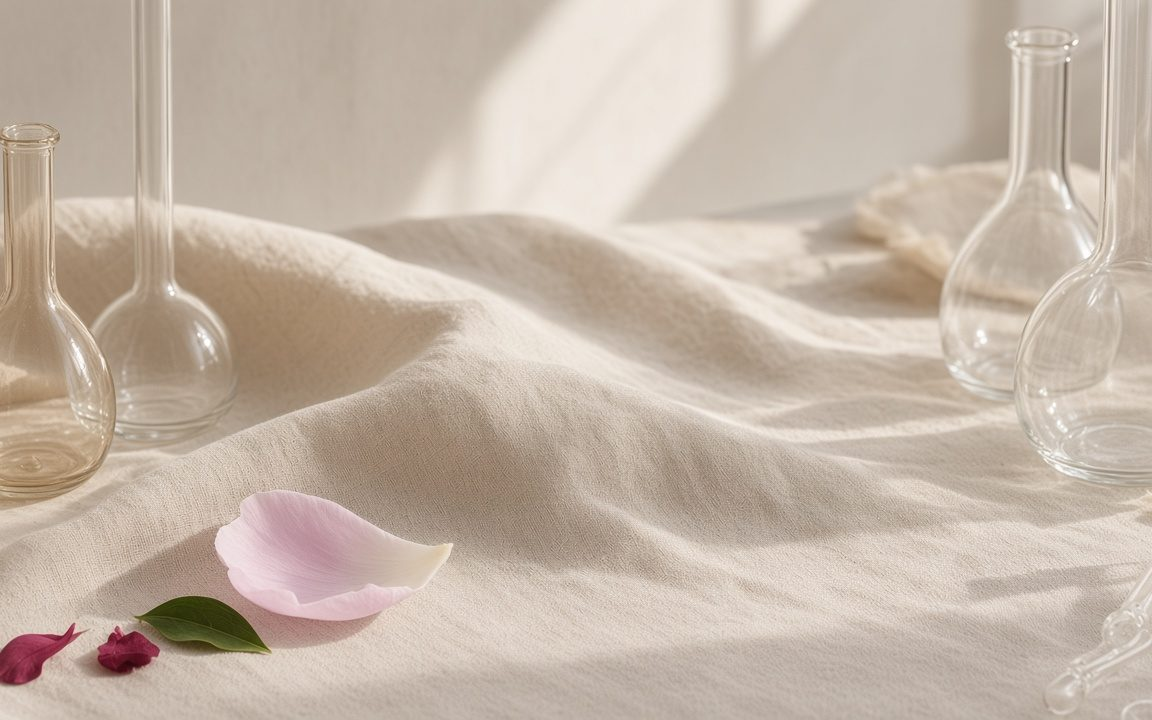
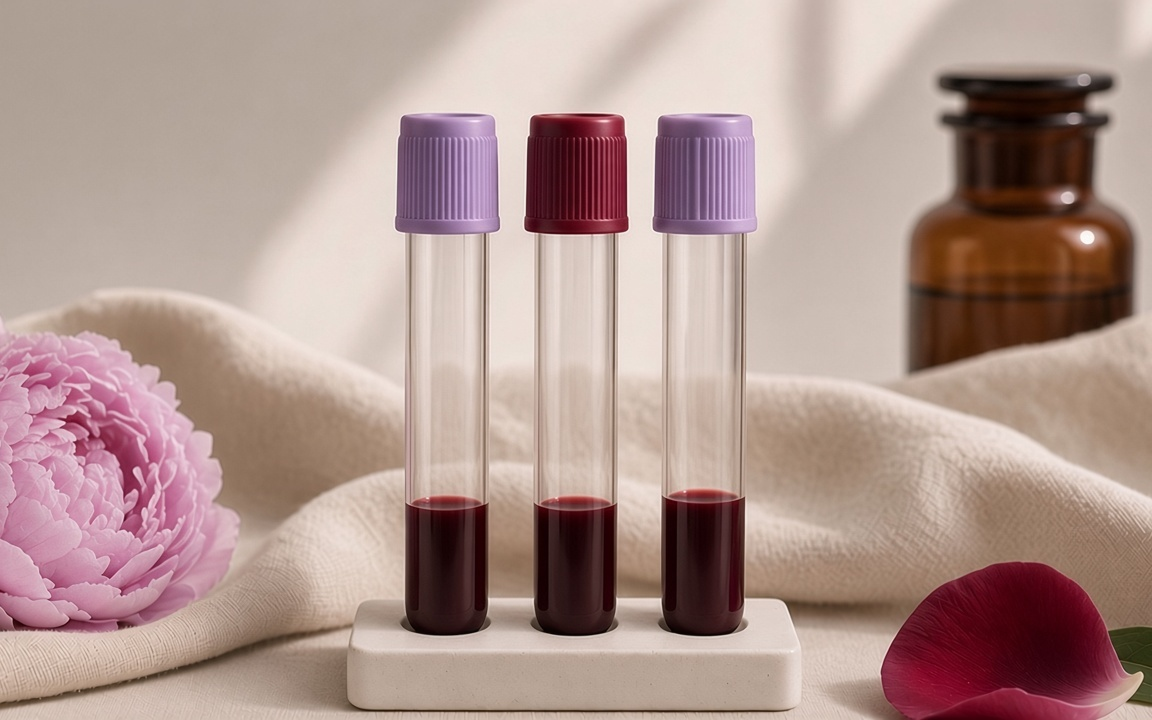
Use the final blood-work and first-visit Library images.
The blood-work picture shows a low fill of blood in three tubes. The first-visit picture shows an illustrated Bloom visit screen. Alt text matches those pictures, and the other four images stay as they were.

diff --git a/index.html b/index.html
@@ -1319,8 +1319,8 @@ footer a:hover{color:var(--bone)}
     </div>
     <!-- Illustrative AI-generated imagery for the six Library articles, cropped from 16:9 to 16:10. Not a photograph of a patient, a practitioner, or a laboratory result. -->
 <div class="lib-grid">
-      <article class="neo res reveal"><div class="res-img" role="img" aria-label="An open blank notebook, a pen and a laptop with a dark screen on linen, beside a pink flower in a small vase" style="background-image:url('library/images/what-to-expect-at-your-first-visit.jpg')"></div><div class="res-top"><span class="pill pill-lilac">Bloom</span><span class="small">6 min read</span></div><h3><a href="/library/what-to-expect-at-your-first-visit.html">What to expect at your first visit</a></h3><p class="small">How an integrated visit works, from booking to your written plan.</p><a class="link" href="/library/what-to-expect-at-your-first-visit.html">Read</a></article>
-      <article class="neo res reveal"><div class="res-img" role="img" aria-label="Clear glass vessels on ivory linen, with a pale pink petal and a few leaves" style="background-image:url('library/images/understanding-your-blood-work.jpg')"></div><div class="res-top"><span class="pill pill-lilac">Guide</span><span class="small">7 min read</span></div><h3><a href="/library/understanding-your-blood-work.html">Understanding your blood work</a></h3><p class="small">What common lab markers measure, explained in plain language, plus questions to bring to your next visit. Your practitioner will always review your results with you.</p><a class="link" href="/library/understanding-your-blood-work.html">Read</a></article>
+      <article class="neo res reveal"><div class="res-img" role="img" aria-label="An open blank notebook, a pen, and a laptop showing an illustrated Bloom visit screen, beside a pink flower in a vase" style="background-image:url('library/images/what-to-expect-at-your-first-visit.jpg')"></div><div class="res-top"><span class="pill pill-lilac">Bloom</span><span class="small">6 min read</span></div><h3><a href="/library/what-to-expect-at-your-first-visit.html">What to expect at your first visit</a></h3><p class="small">How an integrated visit works, from booking to your written plan.</p><a class="link" href="/library/what-to-expect-at-your-first-visit.html">Read</a></article>
+      <article class="neo res reveal"><div class="res-img" role="img" aria-label="Three collection tubes with a low level of dark red blood, lilac and burgundy caps, on ivory linen beside a pink flower and an amber bottle" style="background-image:url('library/images/understanding-your-blood-work.jpg')"></div><div class="res-top"><span class="pill pill-lilac">Guide</span><span class="small">7 min read</span></div><h3><a href="/library/understanding-your-blood-work.html">Understanding your blood work</a></h3><p class="small">What common lab markers measure, explained in plain language, plus questions to bring to your next visit. Your practitioner will always review your results with you.</p><a class="link" href="/library/understanding-your-blood-work.html">Read</a></article>
       <article class="neo res reveal"><div class="res-img" role="img" aria-label="A ceramic cup of tea beside a closed book, a white flower and lilac petals on rumpled linen" style="background-image:url('library/images/an-evening-wind-down.jpg')"></div><div class="res-top"><span class="pill pill-lilac">Ritual</span><span class="small">6 min read</span></div><h3><a href="/library/an-evening-wind-down.html">An evening wind-down</a></h3><p class="small">A gentle routine for the hour before bed, from a warm cup of tea to screens off.</p><a class="link" href="/library/an-evening-wind-down.html">Read</a></article>
       <article class="neo res reveal"><div class="res-img" role="img" aria-label="A plate of grains, roasted vegetables, leafy greens and orange segments on linen, with a white flower beside it" style="background-image:url('library/images/balanced-eating-made-simple.jpg')"></div><div class="res-top"><span class="pill pill-lilac">Nutrition</span><span class="small">6 min read</span></div><h3><a href="/library/balanced-eating-made-simple.html">Balanced eating, made simple</a></h3><p class="small">Easy ways to build balanced meals around foods you already enjoy.</p><a class="link" href="/library/balanced-eating-made-simple.html">Read</a></article>
       <article class="neo res reveal"><div class="res-img" role="img" aria-label="A ceramic bowl of vegetable soup with a wooden spoon and a sprig of rosemary" style="background-image:url('library/images/warming-winter-soups.jpg')"></div><div class="res-top"><span class="pill pill-lilac">Recipe</span><span class="small">7 min read</span></div><h3><a href="/library/warming-winter-soups.html">Warming winter soups</a></h3><p class="small">Simple, comforting recipes for the colder months.</p><a class="link" href="/library/warming-winter-soups.html">Read</a></article>

diff --git a/library/what-to-expect-at-your-first-visit.html b/library/what-to-expect-at-your-first-visit.html
@@ -53,7 +53,7 @@
     </header>
     <!-- Illustrative AI-generated imagery for the six Library articles, cropped from 16:9 to 16:10. Not a photograph of a patient, a practitioner, or a laboratory result. -->
 <figure class="hero-fig">
-      <img src="images/what-to-expect-at-your-first-visit.jpg" alt="An open blank notebook, a pen and a laptop with a dark screen on linen, beside a pink flower in a small vase">
+      <img src="images/what-to-expect-at-your-first-visit.jpg" alt="An open blank notebook, a pen, and a laptop showing an illustrated Bloom visit screen, beside a pink flower in a vase">
       <figcaption>Illustrative AI-generated imagery.</figcaption>
     </figure>
     <div class="article-body">
@@ -157,7 +157,7 @@
       <h2>More from the library</h2>
       <div class="rel-grid">
       <a class="rel neo" href="understanding-your-blood-work.html">
-        <img src="images/understanding-your-blood-work.jpg" alt="Clear glass vessels on ivory linen, with a pale pink petal and a few leaves">
+        <img src="images/understanding-your-blood-work.jpg" alt="Three collection tubes with a low level of dark red blood, lilac and burgundy caps, on ivory linen beside a pink flower and an amber bottle">
         <div class="body">
           <span class="pill pill-lilac">Guide</span>
           <h3>Understanding your blood work</h3>

diff --git a/library/understanding-your-blood-work.html b/library/understanding-your-blood-work.html
@@ -53,7 +53,7 @@
     </header>
     <!-- Illustrative AI-generated imagery for the six Library articles, cropped from 16:9 to 16:10. Not a photograph of a patient, a practitioner, or a laboratory result. -->
 <figure class="hero-fig">
-      <img src="images/understanding-your-blood-work.jpg" alt="Clear glass vessels on ivory linen, with a pale pink petal and a few leaves">
+      <img src="images/understanding-your-blood-work.jpg" alt="Three collection tubes with a low level of dark red blood, lilac and burgundy caps, on ivory linen beside a pink flower and an amber bottle">
       <figcaption>Illustrative AI-generated imagery.</figcaption>
     </figure>
     <div class="article-body">
@@ -183,7 +183,7 @@
           </div>
       </a>
       <a class="rel neo" href="what-to-expect-at-your-first-visit.html">
-        <img src="images/what-to-expect-at-your-first-visit.jpg" alt="An open blank notebook, a pen and a laptop with a dark screen on linen, beside a pink flower in a small vase">
+        <img src="images/what-to-expect-at-your-first-visit.jpg" alt="An open blank notebook, a pen, and a laptop showing an illustrated Bloom visit screen, beside a pink flower in a vase">
         <div class="body">
           <span class="pill pill-lilac">Bloom</span>
           <h3>What to expect at your first visit</h3>

diff --git a/library/an-evening-wind-down.html b/library/an-evening-wind-down.html
@@ -139,7 +139,7 @@
       <h2>More from the library</h2>
       <div class="rel-grid">
       <a class="rel neo" href="understanding-your-blood-work.html">
-        <img src="images/understanding-your-blood-work.jpg" alt="Clear glass vessels on ivory linen, with a pale pink petal and a few leaves">
+        <img src="images/understanding-your-blood-work.jpg" alt="Three collection tubes with a low level of dark red blood, lilac and burgundy caps, on ivory linen beside a pink flower and an amber bottle">
         <div class="body">
           <span class="pill pill-lilac">Guide</span>
           <h3>Understanding your blood work</h3>
@@ -157,7 +157,7 @@
           </div>
       </a>
       <a class="rel neo" href="what-to-expect-at-your-first-visit.html">
-        <img src="images/what-to-expect-at-your-first-visit.jpg" alt="An open blank notebook, a pen and a laptop with a dark screen on linen, beside a pink flower in a small vase">
+        <img src="images/what-to-expect-at-your-first-visit.jpg" alt="An open blank notebook, a pen, and a laptop showing an illustrated Bloom visit screen, beside a pink flower in a vase">
         <div class="body">
           <span class="pill pill-lilac">Bloom</span>
           <h3>What to expect at your first visit</h3>

diff --git a/library/balanced-eating-made-simple.html b/library/balanced-eating-made-simple.html
@@ -143,7 +143,7 @@
       <h2>More from the library</h2>
       <div class="rel-grid">
       <a class="rel neo" href="understanding-your-blood-work.html">
-        <img src="images/understanding-your-blood-work.jpg" alt="Clear glass vessels on ivory linen, with a pale pink petal and a few leaves">
+        <img src="images/understanding-your-blood-work.jpg" alt="Three collection tubes with a low level of dark red blood, lilac and burgundy caps, on ivory linen beside a pink flower and an amber bottle">
         <div class="body">
           <span class="pill pill-lilac">Guide</span>
           <h3>Understanding your blood work</h3>
@@ -161,7 +161,7 @@
         </div>
       </a>
       <a class="rel neo" href="what-to-expect-at-your-first-visit.html">
-        <img src="images/what-to-expect-at-your-first-visit.jpg" alt="An open blank notebook, a pen and a laptop with a dark screen on linen, beside a pink flower in a small vase">
+        <img src="images/what-to-expect-at-your-first-visit.jpg" alt="An open blank notebook, a pen, and a laptop showing an illustrated Bloom visit screen, beside a pink flower in a vase">
         <div class="body">
           <span class="pill pill-lilac">Bloom</span>
           <h3>What to expect at your first visit</h3>

diff --git a/library/hydration-made-easy.html b/library/hydration-made-easy.html
@@ -149,7 +149,7 @@
       <h2>More from the library</h2>
       <div class="rel-grid">
       <a class="rel neo" href="understanding-your-blood-work.html">
-        <img src="images/understanding-your-blood-work.jpg" alt="Clear glass vessels on ivory linen, with a pale pink petal and a few leaves">
+        <img src="images/understanding-your-blood-work.jpg" alt="Three collection tubes with a low level of dark red blood, lilac and burgundy caps, on ivory linen beside a pink flower and an amber bottle">
         <div class="body">
           <span class="pill pill-lilac">Guide</span>
           <h3>Understanding your blood work</h3>

diff --git a/library/warming-winter-soups.html b/library/warming-winter-soups.html
@@ -217,7 +217,7 @@
       <h2>More from the library</h2>
       <div class="rel-grid">
       <a class="rel neo" href="understanding-your-blood-work.html">
-        <img src="images/understanding-your-blood-work.jpg" alt="Clear glass vessels on ivory linen, with a pale pink petal and a few leaves">
+        <img src="images/understanding-your-blood-work.jpg" alt="Three collection tubes with a low level of dark red blood, lilac and burgundy caps, on ivory linen beside a pink flower and an amber bottle">
         <div class="body">
           <span class="pill pill-lilac">Guide</span>
           <h3>Understanding your blood work</h3>
